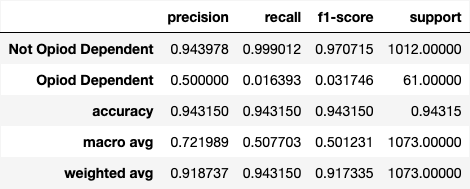
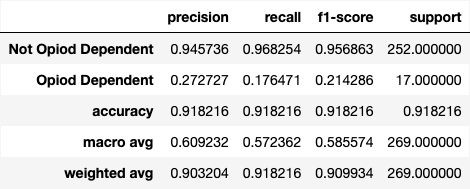
added nn analysis, images

diff --git a/models/neural_nets/nn_train.py b/models/neural_nets/nn_train.py
@@ -6,12 +6,15 @@ sources:
 https://www.tensorflow.org/decision_forests
 
 """
-
+import numpy as np
 import tensorflow as tf
 from matplotlib import pyplot as plt
 from sklearn.metrics import confusion_matrix, classification_report
 import seaborn as sns
 import dataframe_image as dfi
+from sklearn.model_selection import train_test_split
+from sklearn.utils import class_weight
+
 from models.compile_data import train_df, test_df
 import pandas as pd
 
@@ -19,18 +22,38 @@ MODEL_OUTPUT_PATH = "./nn_model/model.keras"
 
 # Before feeding into NN, need to reclassify each categorical variable as a number
 
+val_df, final_test_df = train_test_split(test_df, test_size=0.25, random_state=143)
+
 x_train, y_train = train_df.drop(columns=['DEPENDENT']), train_df['DEPENDENT']
-x_test, y_test = test_df.drop(columns=['DEPENDENT']), test_df['DEPENDENT']
+x_test, y_test = final_test_df.drop(columns=['DEPENDENT']), final_test_df['DEPENDENT']
+x_val, y_val = val_df.drop(columns=['DEPENDENT']), val_df['DEPENDENT']
+
+y_train = y_train.astype('float32')
+y_val = y_val.astype('float32')
+y_test = y_test.astype('float32')
 
 x_train = pd.get_dummies(x_train)
 x_test = pd.get_dummies(x_test)
+x_val = pd.get_dummies(x_val)
 
-x_train, x_test = x_train.align(x_test, join='left', axis=1, fill_value=0)
+# Align all sets to the training set
+x_val = x_val.reindex(columns=x_train.columns, fill_value=0)
+x_test = x_test.reindex(columns=x_train.columns, fill_value=0)
 
 x_train = x_train.astype('float32')
 x_test = x_test.astype('float32')
+x_val = x_val.astype('float32')
 
 input_shape = (x_train.shape[1],)
+
+# Assign imbalanced class weights for better F1 score
+class_weights = class_weight.compute_class_weight(
+    class_weight={1: 0.75, 0: 0.25},
+    classes=np.unique(y_train),
+    y=y_train
+)
+
+class_weights_dict = dict(enumerate(class_weights))
 
 model = tf.keras.Sequential([
     tf.keras.Input(input_shape),
@@ -53,14 +76,15 @@ model.fit(
     x_train, y_train,
     batch_size=32,
     epochs=5,
-    validation_data=(x_test, y_test)
+    validation_data=(x_val, y_val),
+    class_weight=class_weights_dict
 )
 
 results = model.evaluate(x_test, y_test)
 print(results)
 
 # Confusion matrix
-y_true = test_df["DEPENDENT"]
+y_true = final_test_df["DEPENDENT"]
 y_pred = model.predict(x_test).flatten()
 y_pred = (y_pred >= 0.5).astype(int)
 

diff --git a/src/api.py b/src/api.py
@@ -28,10 +28,12 @@ class InputData(BaseModel):
 
 @app.post('/inference_df')
 def inference_df(payload: InputData):
-    df = pd.DataFrame(payload.data)
-    probs = dforest.predict(df)
-    return {"predictions": probs.tolist()}
-
+    try:
+        df = pd.DataFrame(payload.data)
+        probs = dforest.predict(df)
+        return {"predictions": probs.tolist()}
+    except Exception as e:
+        return {"error": str(e)}
 @app.post('/inference_nnet')
 def inference_nn(payload: InputData):
     df = pd.DataFrame(payload.data)
